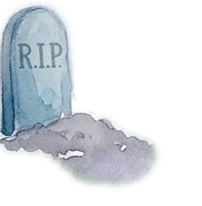
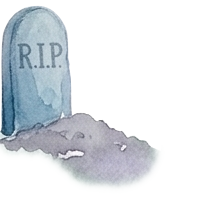
RIP clean line

diff --git a/style.css b/style.css
@@ -12,7 +12,7 @@ html {
 :root {
     --desk-overlap: 90px;
     --editor-min-height: 470px;
-    --rip-y-offset: 90px;
+    --rip-y-offset: 80px;
 }
 
 #app-container {
@@ -71,7 +71,7 @@ html {
     position: absolute;
     left: 0;
     bottom: 0;
-    height: 400px;
+    height: 300px;
     width: auto;
     z-index: 2;
     transform: translateY(var(--rip-y-offset));
